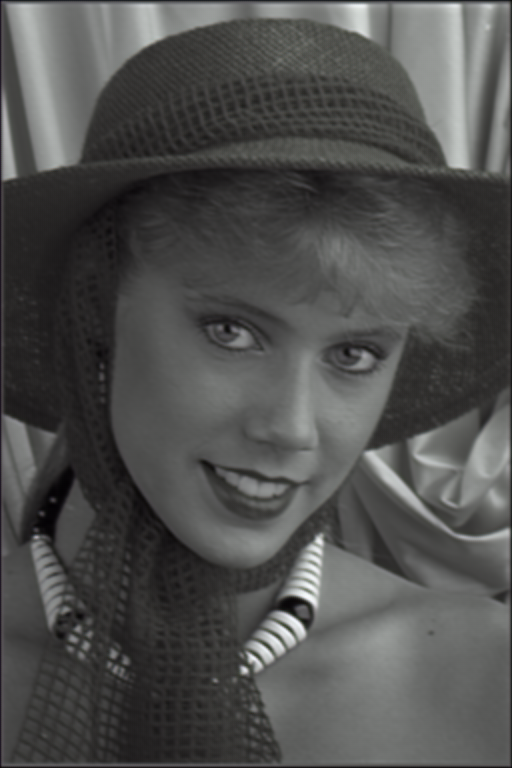
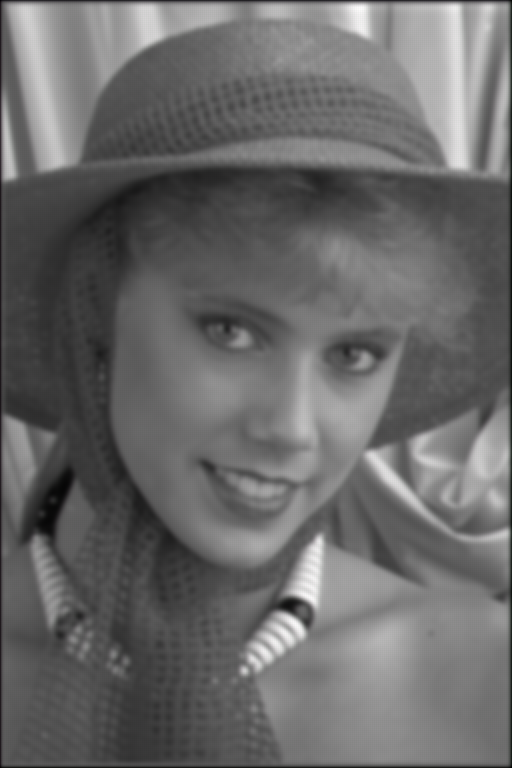
test training

diff --git a/cae.py b/cae.py
@@ -8,6 +8,7 @@ from   imageio import imread,imwrite
 import numpy   as np
 import sys
 
+from icassp_2019.utils.psnr_ssim import psnr
 
 def rgb2gray(rgb):
     gray = np.dot(rgb[...,:3], [0.299, 0.587, 0.114])
@@ -40,6 +41,7 @@ criterion = nn.MSELoss()
 optimizer = torch.optim.Adam(net.parameters(), lr=LEARNING_RATE)
 
 train = rgb2gray(imread('icassp_2019/data/kodak/kodim05.png'))
+train_orig = rgb2gray(imread('icassp_2019/data/kodak/kodim05.png'))
 imwrite("icassp_2019/out/save_image_gray_training.png", train)
 imwrite("icassp_2019/out/girl_image_gray_training.png", rgb2gray(imread('icassp_2019/data/kodak/kodim04.png')))
 imwrite("icassp_2019/out/parrot_image_gray_training.png",rgb2gray(imread('icassp_2019/data/kodak/kodim23.png')))
@@ -59,8 +61,12 @@ if MODEL == 'QCAE':
     train = np.pad(train, pad_width=npad, mode='constant', constant_values=0)
     train = np.transpose(train, (2,0,1))
     train = np.reshape(train, (1, train.shape[0], train.shape[1], train.shape[2]))
+    
+    # train_orig = np.pad(train_orig, pad_width=npad, mode='constant', constant_values=0)
+    train_orig = np.transpose(train_orig, (2,0,1))
+    train_orig = np.reshape(train_orig, (1, train_orig.shape[0], train_orig.shape[1], train_orig.shape[2]))
 
-    print(train.shape)
+    # print(train.shape)
 
     test = np.pad(test, pad_width=npad, mode='constant', constant_values=0)
     test = np.transpose(test, (2,0,1))
@@ -78,30 +84,37 @@ if CUDA:
     test  = torch.from_numpy(test).float().cuda()
 else:
     train = torch.from_numpy(train).float()
+    train_orig = torch.from_numpy(train_orig).float()
     test  = torch.from_numpy(test).float()
 
 for epoch in range(NUM_EPOCHS):
-    print(train.shape)    
+    # print(train.shape)    
 
     output = net(train)
-    loss   = criterion(output, train)
+    loss   = criterion(output, train_orig)
 
     optimizer.zero_grad()
     loss.backward()
     optimizer.step()
-
-    print("epoch "+str(epoch+1)+", loss_train "+str(loss.cpu().item()))
-
+    
+    psnr_print = psnr(output,train_orig)
+    
+    print("epoch "+str(epoch)+", loss_train "+str(loss.cpu().item())+"psnr "+str(psnr_print))
+    # print("psnr ", psnr_print)
+    
     if (epoch %100) == 0:
 
         output = net(test)
         out    = output.cpu().data.numpy()
         if MODEL == 'QCAE':
-            out = np.transpose(out, (0,2,3,1))[:,:,:,1:]
+            out = np.transpose(out, (0,2,3,1))[:,:,:,:]
             out = np.reshape(out, (out.shape[1], out.shape[2], out.shape[3]))
         else:
             out = np.transpose(out, (0,2,3,1))
             out = np.reshape(out, (out.shape[1], out.shape[2], out.shape[3]))
 
-
+        # print(out.shape)
         imwrite("icassp_2019/out/save_image"+str(epoch)+".png", out)
+    
+      
+        

diff --git a/icassp_2019/utils/psnr_ssim.py b/icassp_2019/utils/psnr_ssim.py
@@ -6,29 +6,35 @@
 # October 2018
 ##########################################################
 
-import numpy
+import numpy as np
 import math
 from scipy           import misc
 import sys
 from skimage.measure import compare_ssim as ssim
+import torch
 
 #
 # Give the PSNR and SSIM between two given images
 #
 
 
-original = misc.imread(sys.argv[1])
-contrast = misc.imread(sys.argv[2])
+# original = misc.imread(sys.argv[1])
+# contrast = misc.imread(sys.argv[2])
 
 def psnr(img1, img2):
-    mse = numpy.mean( (img1 - img2) ** 2 )
+    # print(img1.shape, img2.shape)
+    mseImage = (img1 - img2)**2
+    
+    mse = torch.mean(mseImage)
+
+    
     if mse == 0:
         return 100
     PIXEL_MAX = 255.0
     return 20 * math.log10(PIXEL_MAX / math.sqrt(mse))
 
-p = psnr(original,contrast)
-s = ssim(original, contrast, multichannel=True)
+# p = psnr(original,contrast)
+# s = ssim(original, contrast, multichannel=True)
 
-print("PSNR : "+str(p))
-print("SSIM : "+str(s))
+# print("PSNR : "+str(p))
+# print("SSIM : "+str(s))

diff --git a/show.py b/show.py
@@ -1,6 +1,9 @@
 import cv2
+import numpy as np
 
 im = cv2.imread("E:\Project_DL\Quaternion_AttentionGate_experiments\icassp_2019\out\save_image100.png");
-print(im.shape)
-cv2.imshow('a',im)
-cv2.waitKey(0)
+# print(im.shape)
+# cv2.imshow('a',im)
+# cv2.waitKey(0)
+
+print(np.mean(im))

diff --git a/attention_model.py b/attention_model.py
@@ -22,7 +22,7 @@ class attention(nn.Module):
         g1 = self.convg(g)
         
         x1 = self.convx(x)
-        print(g1.shape, x1.shape)
+        # print(g1.shape, x1.shape)
         net = g1 + x1
         net = self.relu(net)
         net = self.conv(net)
